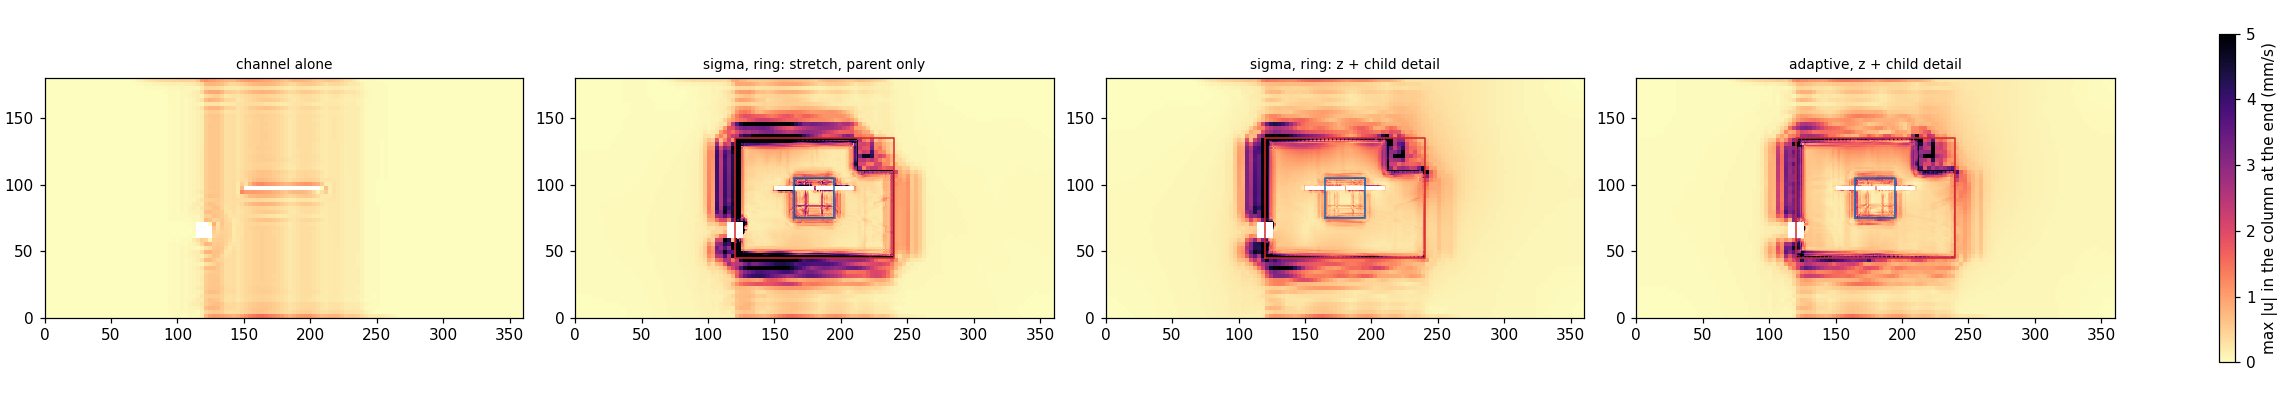
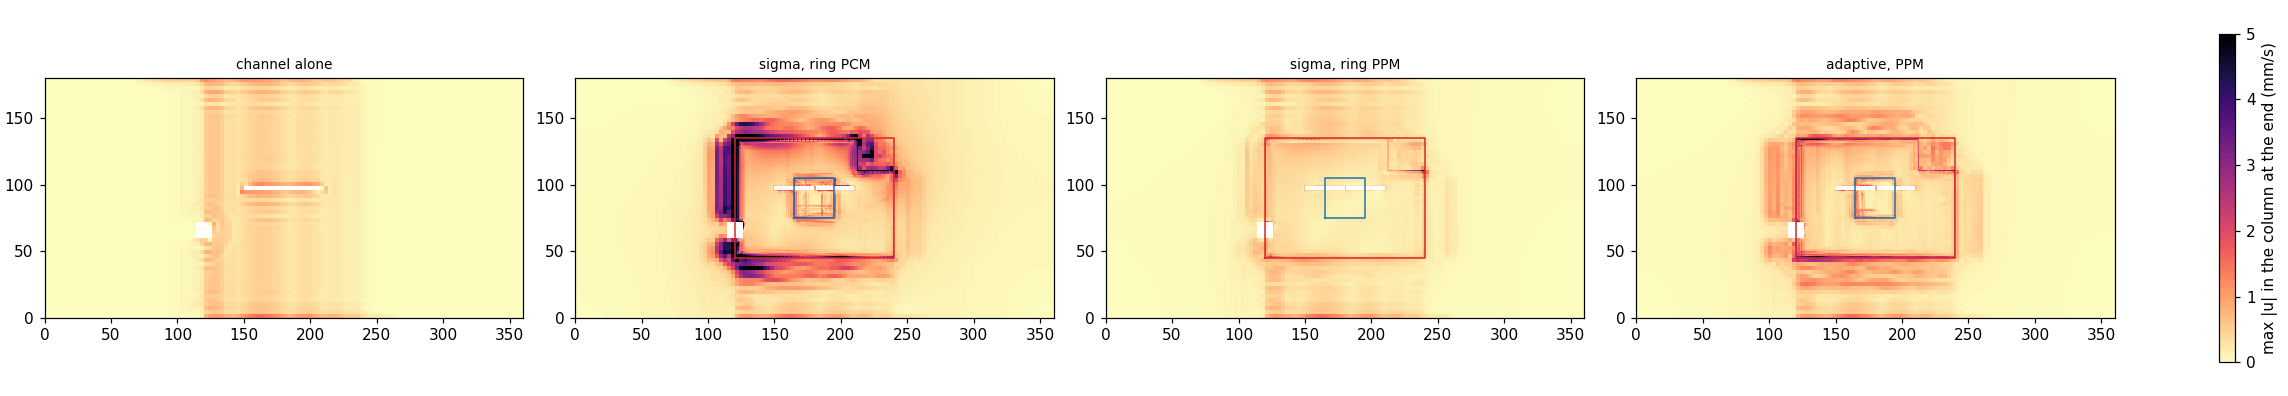
IDEAL V2 with PPM in the remap; ring-vertical solved

diff --git a/issues.html b/issues.html
@@ -184,7 +184,7 @@ dialog#lightbox::backdrop { background: rgb(8 14 18 / 0.86); }
 <header class="hero"><p class="draft">Issues</p><h1>What went wrong, and how it was found</h1>
 <p class="lede">The problems found while building and testing the nesting: in the coupling, in pyGETM, in the setups and in
 the test cases. Solved ones stay here as a record. The example pages link to the issues that concern them.</p></header>
-<section id="list" class="chapter"><ul><li><a href="#substep">A sub-stepping child is unstable under flux matching</a> <span class="small">(solved; IDEAL, NEAB, 2D)</span></li><li><a href="#damping-dt">pyGETM applied the transport damping with the time step twice</a> <span class="small">(solved; pyGETM, IDEAL)</span></li><li><a href="#hole-cores">Subdomains holding only a child's hole got a core</a> <span class="small">(solved; NEAB, load balancing)</span></li><li><a href="#e8-tiles">One process split differs by 1e-4 m</a> <span class="small">(open; IDEAL, 2D)</span></li><li><a href="#gif">Streaks in the animations</a> <span class="small">(solved; IDEAL)</span></li><li><a href="#rim-content">Exact content in the 3D rim made a uniform field non-uniform</a> <span class="small">(solved; IDEAL, 3D)</span></li><li><a href="#ui-sum">The parent's 3D transport at the interface was 10 % off</a> <span class="small">(solved; IDEAL, 3D, pyGETM)</span></li><li><a href="#layer-flux">Parent and child move different water through each layer of the interface</a> <span class="small">(solved; IDEAL, 3D)</span></li><li><a href="#no-sponge-3d">3D runs need the sponge too</a> <span class="small">(solved; IDEAL, 3D)</span></li><li><a href="#v2-init">Spurious currents at the interfaces in a lake at rest</a> <span class="small">(solved; IDEAL, 3D, test setup)</span></li><li><a href="#ring-vertical">The 3D ring cannot carry the child's vertical structure</a> <span class="small">(open; IDEAL, 3D)</span></li><li><a href="#dkm-z0">DKm runs with the wrong bottom roughness</a> <span class="small">(solved; DKm)</span></li><li><a href="#tpxo-coast">TPXO9 at the coast: wet nodes without constants</a> <span class="small">(solved; reference data)</span></li><li><a href="#neab-skagerrak">NEAB's tide east of the Skagerrak amphidrome is twice too large</a> <span class="small">(open; NEAB, DKm)</span></li></ul></section>
+<section id="list" class="chapter"><ul><li><a href="#substep">A sub-stepping child is unstable under flux matching</a> <span class="small">(solved; IDEAL, NEAB, 2D)</span></li><li><a href="#damping-dt">pyGETM applied the transport damping with the time step twice</a> <span class="small">(solved; pyGETM, IDEAL)</span></li><li><a href="#hole-cores">Subdomains holding only a child's hole got a core</a> <span class="small">(solved; NEAB, load balancing)</span></li><li><a href="#e8-tiles">One process split differs by 1e-4 m</a> <span class="small">(open; IDEAL, 2D)</span></li><li><a href="#gif">Streaks in the animations</a> <span class="small">(solved; IDEAL)</span></li><li><a href="#rim-content">Exact content in the 3D rim made a uniform field non-uniform</a> <span class="small">(solved; IDEAL, 3D)</span></li><li><a href="#ui-sum">The parent's 3D transport at the interface was 10 % off</a> <span class="small">(solved; IDEAL, 3D, pyGETM)</span></li><li><a href="#layer-flux">Parent and child move different water through each layer of the interface</a> <span class="small">(solved; IDEAL, 3D)</span></li><li><a href="#no-sponge-3d">3D runs need the sponge too</a> <span class="small">(solved; IDEAL, 3D)</span></li><li><a href="#v2-init">Spurious currents at the interfaces in a lake at rest</a> <span class="small">(solved; IDEAL, 3D, test setup)</span></li><li><a href="#ring-vertical">The 3D ring could not carry the child's vertical structure</a> <span class="small">(solved; IDEAL, 3D)</span></li><li><a href="#dkm-z0">DKm runs with the wrong bottom roughness</a> <span class="small">(solved; DKm)</span></li><li><a href="#tpxo-coast">TPXO9 at the coast: wet nodes without constants</a> <span class="small">(solved; reference data)</span></li><li><a href="#neab-skagerrak">NEAB's tide east of the Skagerrak amphidrome is twice too large</a> <span class="small">(open; NEAB, DKm)</span></li></ul></section>
 <section class="chapter"><div class="issue" id="substep"><h3>A sub-stepping child is unstable under flux matching</h3><div class="tags"><span class="solved">solved</span><span>IDEAL</span><span>NEAB</span><span>2D</span></div>
 <p><strong>Seen:</strong> IDEAL E2. The volume was conserved to 2e-16, yet the strait level grew to 23 m within 12 h.</p>
 <p><strong>What triggers it:</strong> switching parts off one at a time showed the combination of</p>
@@ -265,7 +265,7 @@ differences at the pycnocline: a horizontal density gradient at the interface.</
 <p><strong>Fix:</strong> every level starts from the exact layer means of the analytic profile (the tanh integrates in closed
 form). The column means are then identical for 10, 15 and 20 layers. This alone did not remove the currents; what
 remains is the <a href="#ring-vertical">ring's vertical reconstruction</a>.</p></div></section>
-<section class="chapter"><div class="issue" id="ring-vertical"><h3>The 3D ring cannot carry the child's vertical structure</h3><div class="tags"><span class="open">open</span><span>IDEAL</span><span>3D</span></div>
+<section class="chapter"><div class="issue" id="ring-vertical"><h3>The 3D ring could not carry the child's vertical structure</h3><div class="tags"><span class="solved">solved</span><span>IDEAL</span><span>3D</span></div>
 <p><strong>Seen:</strong> IDEAL V2 after the <a href="#v2-init">consistent initial state</a>: 1–2 cm/s of spurious current
 along the interfaces in a lake at rest, against about 1 mm/s without the 3D ring.</p>
 <p><strong>Cause:</strong> the ring's profile comes from the parent's coarser layers, remapped piecewise-constant: a 3 m thick
@@ -274,9 +274,14 @@ pycnocline in 5 m layers lands in the child's ring as steps of up to 1 °C.</p>
 <ul><li>Keeping every interface at its depth in the remap (only the bottom layer cut or extended): the right map for flat
 isopycnals over a slope, but no measurable difference here.</li>
 <li>Adding the child's own vertical detail to the ring: its adjacent interior column, minus the same column through the
-parent's layers and back. This halves the currents.</li></ul>
-<p><strong>Next:</strong> a limited piecewise-linear or parabolic reconstruction (PLM/PPM) in the remap, and a relaxation of the
-3D ring values (a sponge for the scalars).</p></div></section>
+parent's layers and back. This halves the currents.</li>
+<li>A limited piecewise-parabolic reconstruction (PPM, Colella and Woodward 1984, for layers of unequal thickness)
+inside each source layer of the remap, instead of a constant. It keeps the content exactly and adds no new extrema;
+from 10 onto 20 layers across a 3 m pycnocline its error is 0.11 °C against 0.79 °C.</li></ul>
+<p><strong>Result:</strong> with PPM (now the default, fork <code>remap_scheme="ppm"</code>) the spurious currents drop from 21 to
+6.5 mm/s on the shelf and from 8.6 to 2.2 mm/s in the channel (single model 1.4 mm/s), and the pycnocline moves 0.03 m
+instead of 0.16 m. What is left is largest on the shelf over the slope; a relaxation of the 3D ring values (a sponge for
+the scalars) is the next thing to try if it matters.</p></div></section>
 <section class="chapter"><div class="issue" id="dkm-z0"><h3>DKm runs with the wrong bottom roughness</h3><div class="tags"><span class="solved">solved</span><span>DKm</span></div>
 <p>The first DKm tidal runs used z0 = 0.001 m, not the 0.015 m NEAB uses, which made the Kattegat's tide look twice too
 large. The runs were repeated with 0.015 m. A z0 map from the seabed substrate was tried for NEAB and does not change

diff --git a/ideal.html b/ideal.html
@@ -289,20 +289,24 @@ limit (cneigh 0.1), a shallow-water limit (chmin 0.1, hmin 0.3 m) and a time sca
 <tr><td>the channel alone (single model, same step)</td><td>1.4 mm/s</td><td>–</td><td>–</td><td>–</td></tr>
 <tr><td>nested, sigma, without the 3D ring</td><td>1.4 mm/s</td><td>1.1 mm/s</td><td>3.3 mm/s</td><td>0.01 m</td></tr>
 <tr><td>nested, sigma, ring from the parent</td><td>16 mm/s</td><td>32 mm/s</td><td>12 mm/s</td><td>0.34 m</td></tr>
-<tr><td>nested, sigma, ring with the child's vertical detail</td><td>8.6 mm/s</td><td>21 mm/s</td><td>6.2 mm/s</td><td>0.16 m</td></tr>
-<tr><td>nested, adaptive, ring with the child's detail</td><td>8.3 mm/s</td><td>16 mm/s</td><td>9.2 mm/s</td><td>0.10 m</td></tr>
-<tr><td>adaptive, cNN 0.3</td><td>8.0 mm/s</td><td>18 mm/s</td><td>12 mm/s</td><td>0.12 m</td></tr>
-<tr><td>adaptive, time scale 1 h</td><td>8.5 mm/s</td><td>14 mm/s</td><td>14 mm/s</td><td>0.10 m</td></tr>
-<tr><td>adaptive, pyGETM's defaults (no zooming)</td><td>8.2 mm/s</td><td>19 mm/s</td><td>11 mm/s</td><td>0.12 m</td></tr>
+<tr><td>nested, sigma, ring with the child's vertical detail (PCM)</td><td>8.6 mm/s</td><td>21 mm/s</td><td>6.2 mm/s</td><td>0.16 m</td></tr>
+<tr><td><strong>nested, sigma, the same with PPM</strong></td><td><strong>2.2 mm/s</strong></td><td><strong>6.5 mm/s</strong></td><td><strong>2.4 mm/s</strong></td><td><strong>0.03 m</strong></td></tr>
+<tr><td>nested, adaptive, PPM</td><td>3.0 mm/s</td><td>7.7 mm/s</td><td>6.5 mm/s</td><td>0.08 m</td></tr>
+<tr><td>adaptive, cNN 0.3, PPM</td><td>2.6 mm/s</td><td>6.9 mm/s</td><td>9.1 mm/s</td><td>0.06 m</td></tr>
+<tr><td>adaptive, time scale 1 h, PPM</td><td>3.3 mm/s</td><td>10 mm/s</td><td>4.5 mm/s</td><td>0.11 m</td></tr>
+<tr><td>adaptive, pyGETM's defaults (no zooming), PPM</td><td>2.5 mm/s</td><td>8.1 mm/s</td><td>2.9 mm/s</td><td>0.11 m</td></tr>
 </tbody></table></div>
-<p>Heat is conserved to 1e-10 in every run. The coupling still adds spurious currents of 1–2 cm/s along the
-interfaces, mostly on the parent's side. Without the 3D ring they vanish, so they come from the ring's temperature
-profile: a piecewise-constant remap from the parent's 5 m layers onto the child's finer ones cannot carry a 3 m thick
-pycnocline. Adding the child's own vertical detail halves them. The adaptive coordinates and their parameters change the
-result far less than the ring does, so their scan becomes meaningful only once the ring is better.</p>
+<p>Heat is conserved to 1e-10 in every run. The spurious currents the coupling adds sit along the interfaces, mostly on
+the parent's side, and vanish without the 3D ring: they come from the ring's temperature profile. A piecewise-constant
+(PCM) remap from the parent's 5 m layers onto the child's finer ones cannot carry a 3 m thick pycnocline. Adding the
+child's own vertical detail halves them. A limited piecewise-parabolic reconstruction (PPM, Colella and Woodward 1984)
+in the remap cuts them by another factor of 3, and the displacement of the pycnocline by 5. The channel is then within
+1.6 times the single model's error, the strait at the level of the run without a 3D ring, and the shelf, where the slope
+is, at about 6 times. The adaptive layers do not improve on sigma here; their parameters change the result by less than
+a factor of 1.5. A scan of them against a real case (V5) comes next.</p>
 <figure class="fig wide"><button class="plate" type="button" data-full="fig/ideal/3d/v2_speed.png" aria-label="Open Spurious currents over time full size"><img src="fig/ideal/3d/v2_speed.png" alt="Spurious currents over time" loading="lazy"></button><figcaption><strong>Spurious currents over time</strong><p>Max |u| and rms u per level for every run; the channel alone in blue.</p></figcaption></figure>
-<figure class="fig wide"><button class="plate" type="button" data-full="fig/ideal/3d/v2_maps.png" aria-label="Open Where they are full size"><img src="fig/ideal/3d/v2_maps.png" alt="Where they are" loading="lazy"></button><figcaption><strong>Where they are</strong><p>Max |u| in the water column after 48 h: the channel alone, the ring from the parent, the ring with the child's detail (sigma and adaptive).</p></figcaption></figure>
-<p class="seeissues">Issues found and solved along the way: <a href="issues.html#v2-init">Spurious currents at the interfaces in a lake at rest</a>, <a href="issues.html#ring-vertical">The 3D ring cannot carry the child's vertical structure</a>.</p>
+<figure class="fig wide"><button class="plate" type="button" data-full="fig/ideal/3d/v2_maps.png" aria-label="Open Where they are full size"><img src="fig/ideal/3d/v2_maps.png" alt="Where they are" loading="lazy"></button><figcaption><strong>Where they are</strong><p>Max |u| in the water column after 48 h: the channel alone, the ring with PCM, with PPM (sigma), and with PPM in adaptive layers.</p></figcaption></figure>
+<p class="seeissues">Issues found and solved along the way: <a href="issues.html#v2-init">Spurious currents at the interfaces in a lake at rest</a>, <a href="issues.html#ring-vertical">The 3D ring could not carry the child's vertical structure</a>.</p>
 </section>
 <footer class="foot"><p>Two-way, multi-level nesting for pyGETM, developed by Bolding &amp; Bruggeman. Code: the fork <a href="https://github.com/bolding/pygetm"><code>bolding/pygetm</code></a> (branch <code>nesting-mpmd</code>); the setups and tools (<code>pygetm-nesting</code>) are not public yet.</p><p>Karsten Bolding, Bolding &amp; Bruggeman.</p></footer>
 </main>

diff --git a/methods.html b/methods.html
@@ -273,7 +273,9 @@ concentrations by the volume each parent layer receives.</td></tr>
 child's own vertical detail: its adjacent interior column, minus the same column through the parent's layers and back.</td></tr>
 </tbody></table></div>
 <p>The concentrations of the rim and the ring are remapped with every interface kept at its depth below the surface (only
-the bottom layer is cut or extended), so that flat isopycnals stay flat over a sloping bottom. The amounts of the flux
+the bottom layer is cut or extended), so that flat isopycnals stay flat over a sloping bottom, and with a limited
+piecewise-parabolic reconstruction (PPM, Colella and Woodward 1984) inside each source layer, which carries a thin
+pycnocline from coarse onto fine layers 5–20 times more accurately than a constant. The amounts of the flux
 register and the transports are remapped with the stretch, which keeps their sums exactly. With all of it, a closed basin
 conserves its heat content to 1e-9 over 48 h, and a uniform field stays uniform to round-off
 (<a href="ideal.html#threed">IDEAL</a>). How it got there: <a href="issues.html#rim-content">exact rim content</a>,

diff --git a/status.html b/status.html
@@ -193,7 +193,8 @@ dialog#lightbox::backdrop { background: rgb(8 14 18 / 0.86); }
 <li>3D: temperature and salinity between levels with different vertical grids: rim, ring, 3D transports, ring
 velocities and the 3D flux register; heat conserved to 1e-9.</li></ul></div>
 <div><h4>In progress</h4><ul>
-<li>IDEAL V2, a stratified lake at rest: the coupling's error against the single-model error, sigma and adaptive coordinates.</li>
+<li>IDEAL V2, a stratified lake at rest: with PPM in the remap the coupling adds 1.6× the single model's error in the
+channel and about 6× on the shelf over the slope.</li>
 <li>The adaptive coordinates' parameters in nested runs (first scan: cNN, the time scale, pyGETM's defaults).</li></ul></div>
 <div><h4>Open</h4><ul>
 <li>IDEAL V5 (a pycnocline over the shelf slope), V6 (a tracer front through the levels), V7 (the cost of the 3D exchange).</li>
